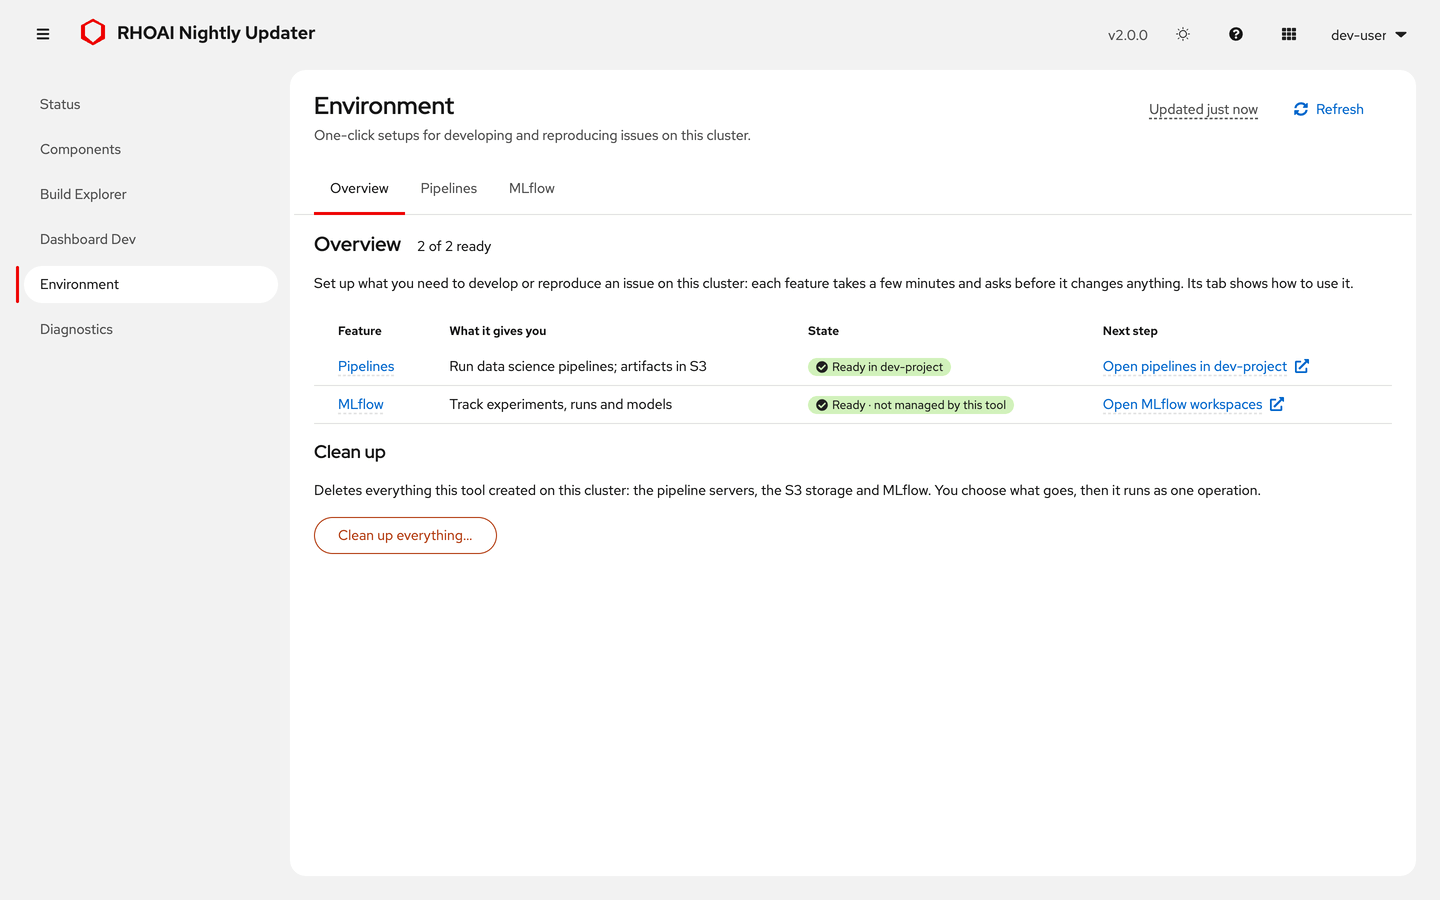
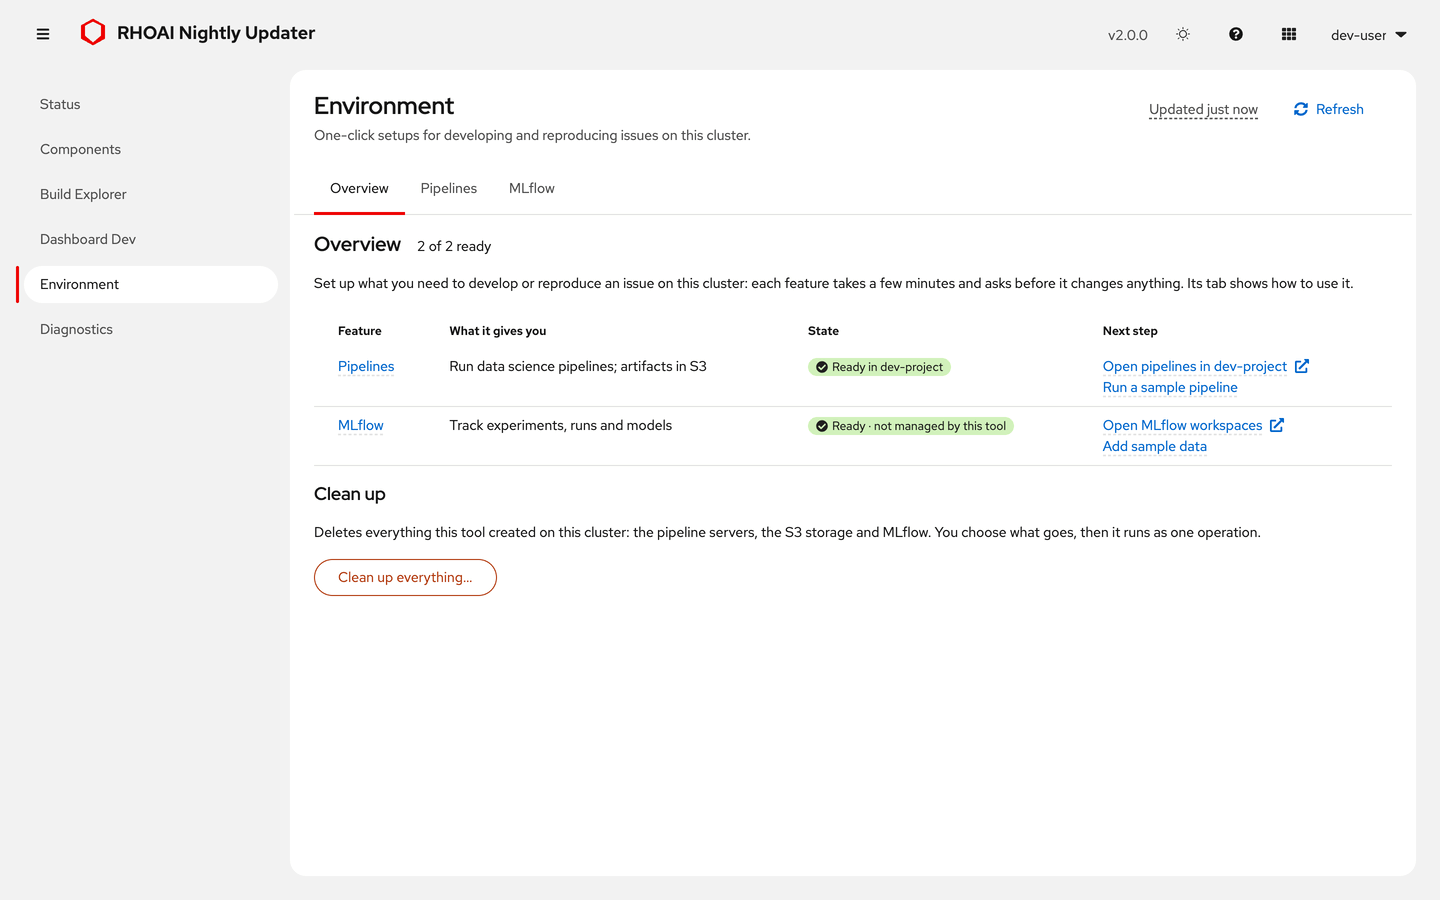
Samples: docs, docs images, and the sample pipeline's links in text
README gains Sample data and the sample pipeline with two new images,
RUNBOOK section 10 their problems and fixes, and CHANGELOG the entry;
the Overview and Environment page images are regenerated from the
docs mock.

The sample pipeline's View runs in dashboard moves into the Runs line
as an inline link: as a third button it ran past a 400 px window. The
failed run's alert no longer repeats the run link shown above it. The
Overview stacks a ready feature's samples link under its next step, so
the next step keeps the cell's width.

diff --git a/frontend/src/components/environment/PipelineSample.tsx b/frontend/src/components/environment/PipelineSample.tsx
@@ -24,7 +24,7 @@ import type { PipelineSampleStatus } from "../../types";
 import { getPipelineSample } from "../../services/api";
 import { TooltipButton } from "../TooltipButton";
 import { ImageRef } from "../ImageRef";
-import { ExternalLink, type Pending } from "./resourceRow";
+import type { Pending } from "./resourceRow";
 import { EnvStatusLabel } from "./resourceStatus";
 import { TabSection } from "./FeatureLayout";
 import { READ_ONLY_SAMPLES, type SampleOp, runActive, runLabel, runTime } from "./samples";
@@ -92,7 +92,7 @@ export const PipelineSample: React.FC<PipelineSampleProps> = ({ project, unmanag
       <Alert variant="warning" isInline component="div"
         title={data.state === "foreign" ? "Something of the sample's name exists that this tool did not create" : `Cannot read the sample pipeline of ${project}`}
         actionLinks={data.state === "unknown" ? <AlertActionLink onClick={status.reload}>Try again</AlertActionLink> : undefined}>
-        <Content component="p">{data.message}{data.state === "foreign" ? " It is left alone, so the sample cannot run here." : ""}</Content>
+        <Content component="p">{data.message}{data.state === "foreign" ? " The sample cannot run here." : ""}</Content>
       </Alert>,
     );
   }
@@ -124,7 +124,10 @@ export const PipelineSample: React.FC<PipelineSampleProps> = ({ project, unmanag
           {present && (
             <DescriptionListGroup>
               <DescriptionListTerm>Runs</DescriptionListTerm>
-              <DescriptionListDescription>{data.runs === 1 ? "1 run" : `${data.runs} runs`} of the sample in {project}</DescriptionListDescription>
+              <DescriptionListDescription>
+                {data.runs === 1 ? "1 run" : `${data.runs} runs`} of the sample in {project}
+                {data.runsLink && <>{" "}<Button variant="link" isInline component="a" href={data.runsLink} target="_blank" rel="noopener noreferrer" icon={<ExternalLinkAltIcon />} iconPosition="end">View runs in dashboard</Button></>}
+              </DescriptionListDescription>
             </DescriptionListGroup>
           )}
           <DescriptionListGroup>
@@ -135,8 +138,7 @@ export const PipelineSample: React.FC<PipelineSampleProps> = ({ project, unmanag
       </StackItem>
       {run?.state === "FAILED" && !busy && (
         <StackItem>
-          <Alert variant="danger" isInline component="div" title="The sample run failed"
-            actionLinks={run.link ? <AlertActionLink component="a" href={run.link} target="_blank" rel="noopener noreferrer" icon={<ExternalLinkAltIcon />} iconPosition="end">View run in dashboard</AlertActionLink> : undefined}>
+          <Alert variant="danger" isInline component="div" title="The sample run failed">
             <Content component="p">{run.error || "The run's page in the dashboard shows which step failed and why."} If a step cannot start because its image cannot be pulled (a disconnected cluster), mirror the image above, or set SAMPLE_PIPELINE_IMAGE on the updater to a copy the cluster can pull.</Content>
           </Alert>
         </StackItem>
@@ -166,7 +168,6 @@ export const PipelineSample: React.FC<PipelineSampleProps> = ({ project, unmanag
                 </TooltipButton>
               </ActionListItem>
             )}
-            {data.runsLink && <ActionListItem><ExternalLink href={data.runsLink}>View runs in dashboard</ExternalLink></ActionListItem>}
           </ActionListGroup>
         </ActionList>
       </StackItem>

diff --git a/docs/tools/capture.js b/docs/tools/capture.js
@@ -425,6 +425,30 @@ async (page) => {
         pad: 24,
       });
 
+      // Samples: the MLflow tab's Sample data and the Pipelines tab's sample run.
+      const section = (name) => page.getByRole("region", { name });
+      await open("/test-resources?tab=mlflow&project=dev-project", "env-samples");
+      const samples = section("Sample data");
+      await crop("environment-mlflow-samples", samples, {
+        notes: [
+          { at: samples.getByRole("button", { name: "Add all" }), n: 1, pos: "l" },
+          { at: label(samples, "Partly added"), n: 2, pos: "r" },
+          { at: samples.getByRole("button", { name: "Regenerate agent and prompt demo" }), n: 3, pos: "r" },
+          { at: label(samples, "Not managed by this tool"), n: 4, pos: "r" },
+        ],
+        pad: 24,
+      });
+      await open("/test-resources?tab=pipelines&project=dev-project", "env-samples-busy");
+      const sample = section("Sample pipeline");
+      await crop("environment-pipeline-sample", sample, {
+        notes: [
+          { at: label(sample, "Running"), n: 1, pos: "l" },
+          { at: sample.getByRole("link", { name: /View run in dashboard/ }), n: 2, pos: "r" },
+          { at: sample.getByRole("button", { name: "Run sample pipeline" }), n: 3, pos: "l" },
+        ],
+        pad: 24,
+      });
+
       await open("/test-resources?tab=pipelines", "s3-migrate");
       const old = part("S3 storage");
       await old.getByRole("button", { name: "Storage of an earlier version" }).click();

diff --git a/frontend/src/components/environment/samples.test.tsx b/frontend/src/components/environment/samples.test.tsx
@@ -408,7 +408,7 @@ describe("Pipelines tab: Sample pipeline", () => {
     expect(within(section()).getByText("Failed")).toBeInTheDocument();
     const alert = within(section()).getByText("The sample run failed").closest(".pf-v6-c-alert") as HTMLElement;
     expect(alert).toHaveTextContent("task read-artifact failed");
-    expect(within(alert).getByRole("link", { name: /View run in dashboard/ })).toHaveAttribute("href", runLink);
+    expect(within(section()).getByRole("link", { name: /View run in dashboard/ })).toHaveAttribute("href", runLink);
   });
 
   it("Remove says how many runs go and that the files stay, then sends one request", async () => {
@@ -456,7 +456,7 @@ describe("Pipelines tab: Sample pipeline", () => {
     });
     renderAt("/test-resources?tab=pipelines&project=dev");
     await tick();
-    expect(section()).toHaveTextContent("Experiment 'rhoai-nightly-sample' was not created by this tool. It is left alone, so the sample cannot run here.");
+    expect(section()).toHaveTextContent("Experiment 'rhoai-nightly-sample' was not created by this tool. The sample cannot run here.");
     expect(within(section()).queryByRole("button", { name: "Run sample pipeline" })).not.toBeInTheDocument();
   });
 

diff --git a/frontend/src/components/environment/Overview.tsx b/frontend/src/components/environment/Overview.tsx
@@ -104,10 +104,10 @@ export const Overview: React.FC<{
                 <Td dataLabel="State"><EnvStatusLabel status={row.state.status} text={row.state.label} /></Td>
                 <Td dataLabel="Next step">
                   {row.samples ? (
-                    <Flex gap={{ default: "gapMd" }} rowGap={{ default: "rowGapXs" }}>
-                      <FlexItem>{next(row, row.state.next)}</FlexItem>
-                      <FlexItem><Button variant="link" isInline onClick={() => onSamples(row, row.samples!.focus)}>{row.samples.label}</Button></FlexItem>
-                    </Flex>
+                    <Stack>
+                      <StackItem>{next(row, row.state.next)}</StackItem>
+                      <StackItem><Button variant="link" isInline onClick={() => onSamples(row, row.samples!.focus)}>{row.samples.label}</Button></StackItem>
+                    </Stack>
                   ) : next(row, row.state.next)}
                 </Td>
               </Tr>

diff --git a/README.md b/README.md
@@ -101,6 +101,25 @@ Storage an earlier version set up in namespace `minio` reads **Needs attention**
 
 MLflow on RHOAI keeps each data science project apart as a workspace. Once it is ready, **Use it** has a project picker, **Open <project> in MLflow** (`<address>/#/experiments?workspace=<project>`), and the client settings to copy (`MLFLOW_TRACKING_URI`, `MLFLOW_TRACKING_TOKEN=$(oc whoami -t)`, `MLFLOW_WORKSPACE=<project>`). Deploying an opendatahub-io/mlflow PR image is under **Test an MLflow PR build**.
 
+#### Sample data and a sample pipeline
+
+Once MLflow or a pipeline server works, one click shows it working, with no code.
+
+<img src="docs/images/environment-mlflow-samples.png" alt="MLflow tab, Sample data for dev-project: Add all and Remove all; the agent and prompt demo Added with Regenerate; the training sample Partly added with Add and Remove; the MCP server Not managed by this tool; the agent skill Not available" width="760">
+
+1. **Add all** / **Remove all**: one confirmed operation for every sample that can be added or removed (the updater allows one samples operation per user every 30 seconds).
+2. Each sample in the chosen project (MLflow workspace) says what you then see, and where in the dashboard. **Partly added** names what is missing; **Removed** means deleted in MLflow (Add restores it); **Not available** means this MLflow has no such API (skills on older releases).
+3. The **agent and prompt demo** is MLflow's own demo. It has **Regenerate**, but no Remove: the updater holds no right to delete MLflow data it did not name, so remove it in the MLflow UI. Clean up leaves it in place.
+4. Something of a sample's name that this tool did not create is **Not managed by this tool** and left alone.
+
+The other samples are a training experiment with three runs and a registered model (`champion` alias), an MCP server entry (DeepWiki's public server; the Gen AI playground needs internet access to call it) and an agent skill. Everything the tool adds is tagged `rhoai-nightly-updater.sample`, and Remove deletes only that. Readers see every action disabled with the reason; without a working MLflow the section links to Set up.
+
+<img src="docs/images/environment-pipeline-sample.png" alt="Pipelines tab, Sample pipeline in dev-project: the latest run Running for 1m 20s with View run in dashboard, 1 run of the sample, the image, Run sample pipeline and Remove sample" width="760">
+
+1. The latest run's state, read again every 5 seconds while it runs.
+2. **View run in dashboard** (and **View runs in dashboard** for all of them).
+3. **Run sample pipeline** starts a new two-step run (write a small file to the S3 storage, read it back) on the pipeline server this tool set up; **Remove sample** deletes its runs, pipeline and experiment, and the files stay in the S3 storage. The image is UBI 9 minimal, pinned by digest; on a disconnected cluster, mirror it or set `SAMPLE_PIPELINE_IMAGE`. A pipeline server someone else created is not offered the sample.
+
 Every setup has its removal on the same tab: **Delete** in the part's menu for the storage, the pipeline server and MLflow, each confirmed with the outcome first and the objects under Details; **Revert** for a deployed PR image; **Delete old storage** after Migrate storage; and **Clean up** at the bottom of each tab. What this tool did not create has no Delete.
 
 ### Diagnostics: what is wrong, and how to fix it

diff --git a/RUNBOOK.md b/RUNBOOK.md
@@ -324,6 +324,15 @@ The page has an **Overview** (each feature's state and next step) and one tab pe
 | Old pipeline run artifacts return 404 after Migrate storage | They were written to MinIO before an earlier version replaced it with SeaweedFS, so they are on `minio-pvc`, which cannot be copied automatically. Copy them by hand before you remove the old storage (§10.1). If a cached step fails because its outputs are gone, re-run with caching disabled |
 | DSPA or project stuck Terminating | §11.4 |
 | MLflow teardown hangs / DSC change waits on MLflow | §11.4 |
+| Sample data: "Too many requests. Please wait 30 seconds" | One samples operation per user and route every 30 seconds. Use **Add all** / **Remove all** (one request) instead of one row after another |
+| Sample data or the sample pipeline: "lacks the rights for this call" | The updater's ServiceAccount misses the samples rules: re-apply the template (`make upgrade`). MLflow caches access decisions for up to 5 minutes, so retry after that |
+| Sample **Partly added** | An earlier Add stopped part-way; the row names what is missing. **Add** (or **Regenerate** for the agent and prompt demo) completes it |
+| Sample **Not managed by this tool** | Something of the sample's name exists without the `rhoai-nightly-updater.sample` tag; the tool never changes or deletes it. Rename or delete it in MLflow if it is yours to remove |
+| Agent and prompt demo has no Remove | By design: the updater holds no right to delete MLflow data it did not name. Remove it in the MLflow UI; Clean up leaves it |
+| Agent skill **Not available** | This MLflow has no Skill Registry (older RHOAI releases). The dashboard's AI hub > Skills also needs the `skillRegistry` flag |
+| Sample run Failed: an image cannot be pulled | Disconnected or mirrored cluster: mirror the image the section shows, or set `SAMPLE_PIPELINE_IMAGE` on the updater to a pullable copy, then **Run sample pipeline** again |
+| Sample pipeline not offered | It runs only on a ready pipeline server this tool set up (`nightly-dspa`); the section says which condition is missing. A KFP experiment or pipeline `rhoai-nightly-sample` someone else created blocks it |
+| Sample run stays Pending | The section stops checking after 10 minutes (**Check again**). Open the run in the dashboard for its step's state |
 
 ### 10.1 Migrate storage from an earlier version
 

diff --git a/CHANGELOG.md b/CHANGELOG.md
@@ -54,6 +54,15 @@ only accepts a tag whose version is the top dated section. See
   and the client settings (`MLFLOW_TRACKING_URI`,
   `MLFLOW_TRACKING_TOKEN`, `MLFLOW_WORKSPACE`); deploying a PR build
   moved to "Test an MLflow PR build". A "What next" list follows.
+- **Sample data and a sample pipeline.** The MLflow tab's Sample data
+  adds, per project, MLflow's agent and prompt demo (with Regenerate,
+  never Remove), a training experiment with a registered model, an MCP
+  server entry and an agent skill, each with its state and where it
+  shows in the dashboard; Add all and Remove all are one operation. The
+  Pipelines tab's Sample pipeline runs a two-step write-and-read run on
+  the tool's pipeline server, follows it until it ends, links to it in
+  the dashboard and removes it. The Overview and What next point to
+  them once a feature works.
 - **Migrate storage** says why at the top of the Pipelines tab, and a
   successful migration ends with its outcome: Delete old storage is a
   separate, later action in the storage's menu.
